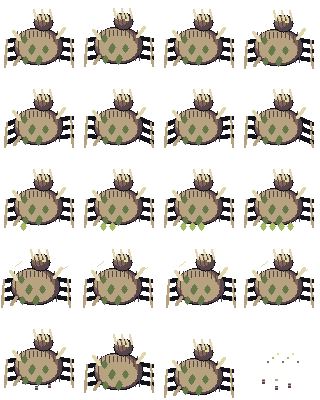
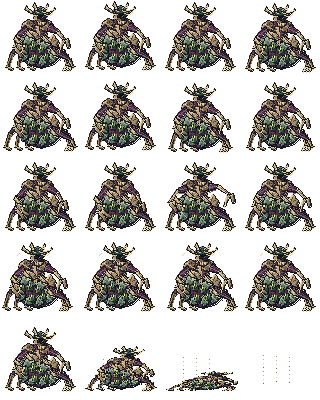
Rebuild Carrion sprites to match textured bone and chitin faction artwork

diff --git a/sw.js b/sw.js
@@ -1,4 +1,4 @@
-const V='sm-carrion-drowned-20261027';const CORE=['./', 'index.html', 'death-effects.js', 'drowned-sprites.js', 'assets/drowned/saltleecher.png', 'assets/drowned/mariner.png', 'assets/drowned/bellbound.png', 'assets/drowned/brinewraith.png', 'assets/drowned/admiral.png', 'manifest.webmanifest', 'icon-192.png', 'icon-512.png', 'icon-maskable-512.png', 'apple-touch-icon.png', 'assets/carrion-brood/broodEgg.png','assets/carrion-brood/broodParasite.png','carrion-brood.js', 'carrion-sprites.js', 'assets/carrion-brood/marrowgnaw.png', 'assets/carrion-brood/bloatcarrier.png', 'assets/carrion-brood/sinewStalker.png', 'assets/carrion-brood/broodShepherd.png', 'assets/carrion-brood/carrionMatriarch.png', 'assets/carrion-brood/carrionMatriarch-phase2.png', 'assets/carrion-brood/carrionMatriarch-phase3.png'];
+const V='sm-carrion-art-v2-20261027';const CORE=['./', 'index.html', 'death-effects.js', 'drowned-sprites.js', 'assets/drowned/saltleecher.png', 'assets/drowned/mariner.png', 'assets/drowned/bellbound.png', 'assets/drowned/brinewraith.png', 'assets/drowned/admiral.png', 'manifest.webmanifest', 'icon-192.png', 'icon-512.png', 'icon-maskable-512.png', 'apple-touch-icon.png', 'assets/carrion-brood/broodEgg.png','assets/carrion-brood/broodParasite.png','carrion-brood.js', 'carrion-sprites.js', 'assets/carrion-brood/marrowgnaw.png', 'assets/carrion-brood/bloatcarrier.png', 'assets/carrion-brood/sinewStalker.png', 'assets/carrion-brood/broodShepherd.png', 'assets/carrion-brood/carrionMatriarch.png', 'assets/carrion-brood/carrionMatriarch-phase2.png', 'assets/carrion-brood/carrionMatriarch-phase3.png'];
 self.addEventListener('install',e=>{e.waitUntil(caches.open(V).then(c=>Promise.all(CORE.map(u=>fetch(new Request(u,{cache:'reload'})).then(r=>{if(r.ok)return c.put(u,r)}).catch(()=>{})))).then(()=>self.skipWaiting()))});
 self.addEventListener('activate',e=>{e.waitUntil(caches.keys().then(ks=>Promise.all(ks.filter(k=>k!==V&&k!=='sm-fonts').map(k=>caches.delete(k)))).then(()=>self.clients.claim()))});
 self.addEventListener('fetch',e=>{const u=new URL(e.request.url);if(e.request.method!=='GET')return;

diff --git a/docs/carrion-brood.md b/docs/carrion-brood.md
@@ -1,6 +1,6 @@
 # Carrion Brood
 
-Directly authored pixel art: no image generation or concept-sheet crops. Source: `tools/draw-carrion.cjs` (requires Sharp to regenerate). Nine transparent PNG atlases contain 180 frames, each on an 80×80 cell with a fixed [40,70] foot anchor. Rows: idle, movement, attack, hurt, defeat; four frames per state. East/west facing uses horizontal mirroring in the shared semi-isometric actor pass. The fixed thirteen-color palette and binary alpha preserve hard edges. Boss phases have separate shell/crown art. Defeat dissolves into stylized shell fragments and spores; anatomical effects are bypassed for this faction.
+Directly authored pixel art: no image generation or concept-sheet crops. Source: `tools/draw-carrion.cjs` (requires Sharp to regenerate). Nine transparent PNG atlases contain 180 frames, each on an 80×80 cell with a fixed [40,70] foot anchor. Rows: idle, movement, attack, hurt, defeat; four frames per state. East/west facing uses horizontal mirroring in the shared semi-isometric actor pass. Seven eight-tone material ramps and binary alpha preserve hard edges. Organic silhouettes, violet sinew, corroded green chitin, ivory ridges and upper-left clustered lighting match the material treatment of the existing faction sprites. Boss phases have separate shell/crown art. Defeat dissolves into stylized shell fragments and spores; anatomical effects are bypassed for this faction.
 
 | Creature | Mechanic and counterplay |
 |---|---|
